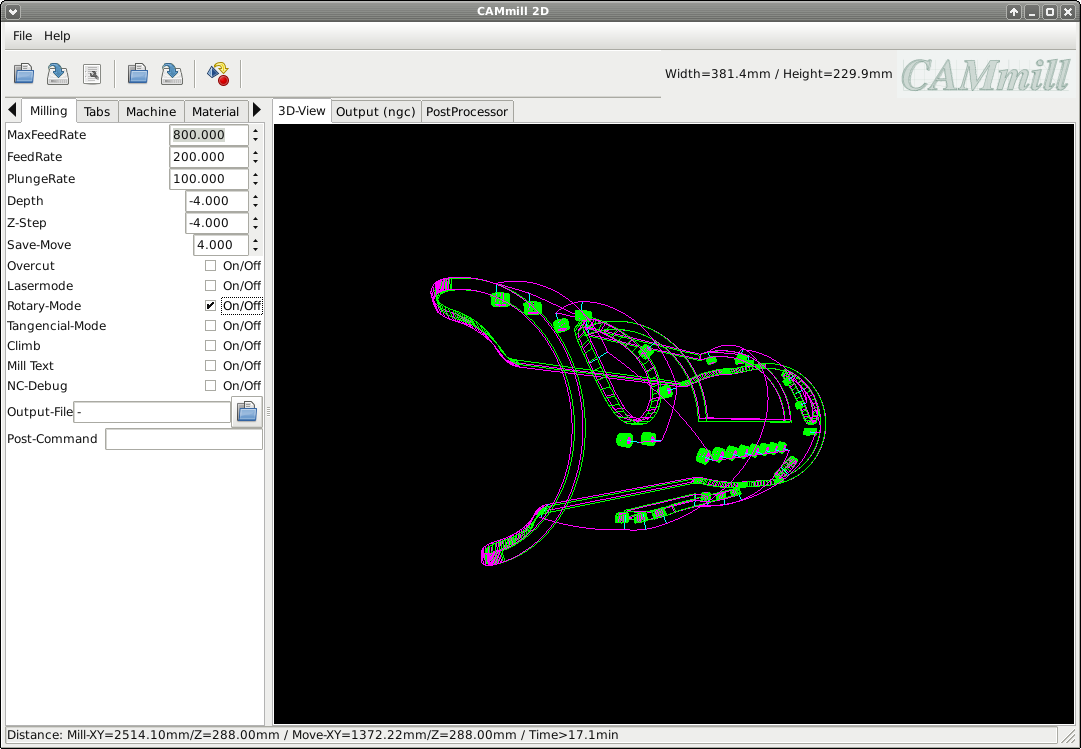
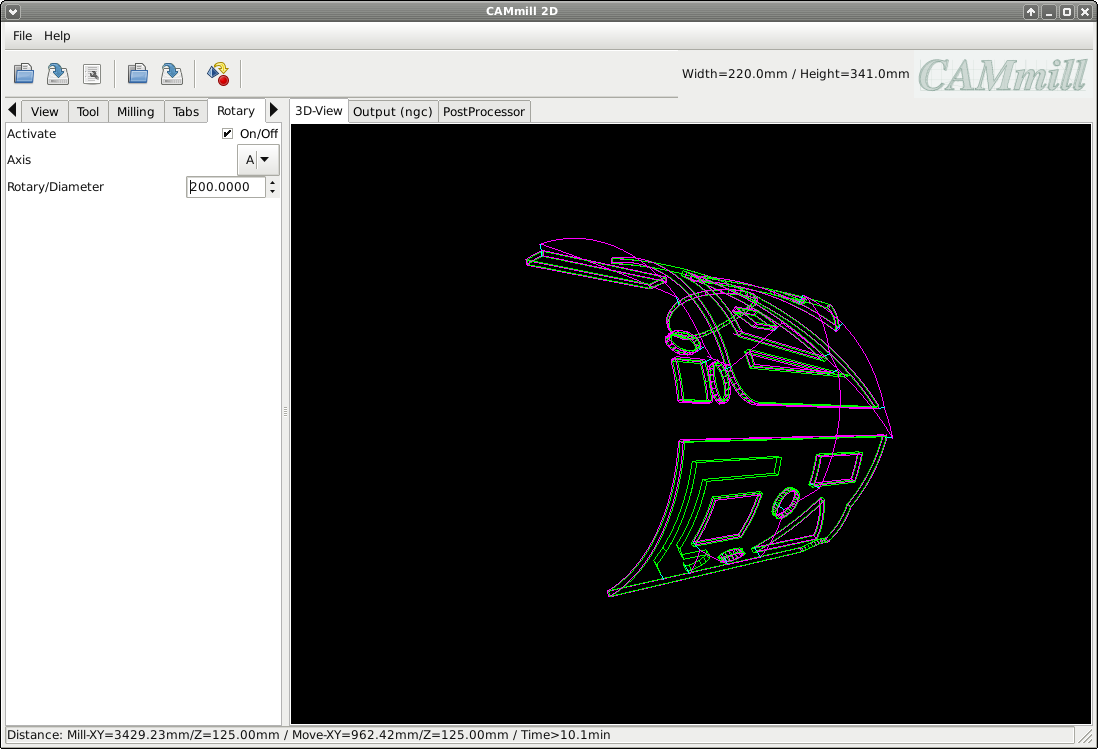
adding little bit documentation

diff --git a/doc/holdings-tabs.html b/doc/holdings-tabs.html
@@ -1,0 +1,59 @@
+<HTML>
+<HEAD>
+<META charset="utf-8"/>
+<STYLE>
+	body {
+		background-color: #000000;
+		background-image: url('doc/bg.png');
+		color: #FFFFFF;
+	}
+</STYLE>
+</HEAD>
+<BODY>
+<H1>CAMmill</H1>
+<HR>
+<H2>Holding-Tabs</H2>
+
+Holding-Tabs sind kleine brücken zum festhalten des ausgefrästen Werkstücks
+
+<BR>
+<BR>
+<BR>
+<LI>Use Taps:<BR>
+<BLOCKQUOTE>
+	aktiviert Holding-Tab's
+</BLOCKQUOTE>
+<LI>Depth
+<BLOCKQUOTE>
+	tiefe der Tab-Oberkante
+</BLOCKQUOTE>
+<LI>Lenght
+<BLOCKQUOTE>
+	länge der Tab's
+</BLOCKQUOTE>
+<LI>Triangle-Type
+<BLOCKQUOTE>
+	Form der Tab's, Rechteck oder Dreieck
+</BLOCKQUOTE>
+<LI>X-Grid
+<BLOCKQUOTE>
+	Raster an dem die Tab's gesezt sind (X-Richtung)
+</BLOCKQUOTE>
+<LI>Y-Grid
+<BLOCKQUOTE>
+	Raster an dem die Tab's gesezt sind (Y-Richtung)
+</BLOCKQUOTE>
+
+
+<BR>
+<BR>
+<BR>
+
+<A href="sc_tabgrid.png"><IMG width="600px" src="sc_tabgrid.png"></A>
+<BR>
+<BR>
+<BR>
+<BR>
+<BR>
+</BODY>
+</HTML>

diff --git a/doc/rotary-mode.html b/doc/rotary-mode.html
@@ -1,0 +1,47 @@
+<HTML>
+<HEAD>
+<META charset="utf-8"/>
+<STYLE>
+	body {
+		background-color: #000000;
+		background-image: url('doc/bg.png');
+		color: #FFFFFF;
+	}
+</STYLE>
+</HEAD>
+<BODY>
+<H1>CAMmill</H1>
+<HR>
+<H2>Rotary-Mode</H2>
+
+Rotaymode nutzt man um über eine 4. Achse(Drehache) auf runden Materialien zu Fräsen
+
+<BR>
+<BR>
+<BR>
+<LI>Activate:<BR>
+<BLOCKQUOTE>
+Aktiviert den Rotations-Achsen-Modus
+</BLOCKQUOTE>
+<LI>Axis:<BR>
+<BLOCKQUOTE>
+Auswahl der Rotations-Achse (A/B/C)
+</BLOCKQUOTE>
+<LI>Diameter:<BR>
+<BLOCKQUOTE>
+Durchmesser des Werkstücks
+</BLOCKQUOTE>
+
+
+<BR>
+<BR>
+<BR>
+
+<A href="sc_rotary.png"><IMG width="600px" src="sc_rotary.png"></A>
+<BR>
+<BR>
+<BR>
+<BR>
+<BR>
+</BODY>
+</HTML>

diff --git a/main.c b/main.c
@@ -1170,11 +1170,13 @@ void mill_xy (int gcmd, double x, double y, double r, int feed, int object_num, 
 								tx1 = maxn - nx;
 								tx2 = maxn - nx;
 							}
-							glColor4f(0.0, 0.0, 1.0, 0.1);
-							glBegin(GL_LINES);
-							glVertex3f(tx1, ty1, PARAMETER[P_T_DEPTH].vdouble);
-							glVertex3f(tx2, ty2, PARAMETER[P_T_DEPTH].vdouble);
-							glEnd();
+							if (PARAMETER[P_M_ROTARYMODE].vint == 0) {
+								glColor4f(0.0, 0.0, 1.0, 0.1);
+								glBegin(GL_LINES);
+								glVertex3f(tx1, ty1, PARAMETER[P_T_DEPTH].vdouble);
+								glVertex3f(tx2, ty2, PARAMETER[P_T_DEPTH].vdouble);
+								glEnd();
+							}
 							if (mill_last_z < PARAMETER[P_T_DEPTH].vdouble && (intersect_check(mill_last_x, mill_last_y, x, y, tx1 + 0.0002, ty1 + 0.0002, tx2 + 0.0002, ty2 + 0.0002, &i_x, &i_y) == 1 || intersect_check(x, y, mill_last_x, mill_last_y, tx1 + 0.0002, ty1 + 0.0002, tx2 + 0.0002, ty2 + 0.0002, &i_x, &i_y) == 1)) {
 								double alpha1 = vector_angle(mill_last_x, mill_last_y, i_x, i_y);
 								double i_x2 = i_x;
@@ -1199,25 +1201,27 @@ void mill_xy (int gcmd, double x, double y, double r, int feed, int object_num, 
 								postcam_var_push_double("currentX", _X(i_x2));
 								postcam_var_push_double("currentY", _Y(i_y2));
 								if (PARAMETER[P_T_TYPE].vint == 0) {
-									glColor4f(1.0, 1.0, 0.0, 0.5);
-									glBegin(GL_QUADS);
-									glVertex3f(i_x2, i_y2 - PARAMETER[P_TOOL_DIAMETER].vdouble, PARAMETER[P_M_DEPTH].vdouble);
-									glVertex3f(i_x2, i_y2 - PARAMETER[P_TOOL_DIAMETER].vdouble, PARAMETER[P_T_DEPTH].vdouble);
-									glVertex3f(i_x2, i_y2 + PARAMETER[P_TOOL_DIAMETER].vdouble, PARAMETER[P_T_DEPTH].vdouble);
-									glVertex3f(i_x2, i_y2 + PARAMETER[P_TOOL_DIAMETER].vdouble, PARAMETER[P_M_DEPTH].vdouble);
-									glEnd();
-									glBegin(GL_QUADS);
-									glVertex3f(i_x2, i_y2 - PARAMETER[P_TOOL_DIAMETER].vdouble, PARAMETER[P_T_DEPTH].vdouble);
-									glVertex3f(i_x3, i_y3 - PARAMETER[P_TOOL_DIAMETER].vdouble, PARAMETER[P_T_DEPTH].vdouble);
-									glVertex3f(i_x3, i_y3 + PARAMETER[P_TOOL_DIAMETER].vdouble, PARAMETER[P_T_DEPTH].vdouble);
-									glVertex3f(i_x2, i_y2 + PARAMETER[P_TOOL_DIAMETER].vdouble, PARAMETER[P_T_DEPTH].vdouble);
-									glEnd();
-									glBegin(GL_QUADS);
-									glVertex3f(i_x3, i_y3 - PARAMETER[P_TOOL_DIAMETER].vdouble, PARAMETER[P_T_DEPTH].vdouble);
-									glVertex3f(i_x3, i_y3 - PARAMETER[P_TOOL_DIAMETER].vdouble, PARAMETER[P_M_DEPTH].vdouble);
-									glVertex3f(i_x3, i_y3 + PARAMETER[P_TOOL_DIAMETER].vdouble, PARAMETER[P_M_DEPTH].vdouble);
-									glVertex3f(i_x3, i_y3 + PARAMETER[P_TOOL_DIAMETER].vdouble, PARAMETER[P_T_DEPTH].vdouble);
-									glEnd();
+									if (PARAMETER[P_M_ROTARYMODE].vint == 0) {
+										glColor4f(1.0, 1.0, 0.0, 0.5);
+										glBegin(GL_QUADS);
+										glVertex3f(i_x2, i_y2 - PARAMETER[P_TOOL_DIAMETER].vdouble, PARAMETER[P_M_DEPTH].vdouble);
+										glVertex3f(i_x2, i_y2 - PARAMETER[P_TOOL_DIAMETER].vdouble, PARAMETER[P_T_DEPTH].vdouble);
+										glVertex3f(i_x2, i_y2 + PARAMETER[P_TOOL_DIAMETER].vdouble, PARAMETER[P_T_DEPTH].vdouble);
+										glVertex3f(i_x2, i_y2 + PARAMETER[P_TOOL_DIAMETER].vdouble, PARAMETER[P_M_DEPTH].vdouble);
+										glEnd();
+										glBegin(GL_QUADS);
+										glVertex3f(i_x2, i_y2 - PARAMETER[P_TOOL_DIAMETER].vdouble, PARAMETER[P_T_DEPTH].vdouble);
+										glVertex3f(i_x3, i_y3 - PARAMETER[P_TOOL_DIAMETER].vdouble, PARAMETER[P_T_DEPTH].vdouble);
+										glVertex3f(i_x3, i_y3 + PARAMETER[P_TOOL_DIAMETER].vdouble, PARAMETER[P_T_DEPTH].vdouble);
+										glVertex3f(i_x2, i_y2 + PARAMETER[P_TOOL_DIAMETER].vdouble, PARAMETER[P_T_DEPTH].vdouble);
+										glEnd();
+										glBegin(GL_QUADS);
+										glVertex3f(i_x3, i_y3 - PARAMETER[P_TOOL_DIAMETER].vdouble, PARAMETER[P_T_DEPTH].vdouble);
+										glVertex3f(i_x3, i_y3 - PARAMETER[P_TOOL_DIAMETER].vdouble, PARAMETER[P_M_DEPTH].vdouble);
+										glVertex3f(i_x3, i_y3 + PARAMETER[P_TOOL_DIAMETER].vdouble, PARAMETER[P_M_DEPTH].vdouble);
+										glVertex3f(i_x3, i_y3 + PARAMETER[P_TOOL_DIAMETER].vdouble, PARAMETER[P_T_DEPTH].vdouble);
+										glEnd();
+									}
 									postcam_var_push_double("endZ", _Z(PARAMETER[P_T_DEPTH].vdouble));
 									postcam_call_function("OnMove");
 									postcam_var_push_double("currentZ", _Z(PARAMETER[P_T_DEPTH].vdouble));
@@ -1230,19 +1234,21 @@ void mill_xy (int gcmd, double x, double y, double r, int feed, int object_num, 
 									postcam_call_function("OnMove");
 									postcam_var_push_double("currentZ", _Z(mill_last_z));
 								} else {
-									glColor4f(1.0, 1.0, 0.0, 0.5);
-									glBegin(GL_QUADS);
-									glVertex3f(i_x2, i_y2 - PARAMETER[P_TOOL_DIAMETER].vdouble, PARAMETER[P_M_DEPTH].vdouble);
-									glVertex3f(i_x, i_y - PARAMETER[P_TOOL_DIAMETER].vdouble, PARAMETER[P_T_DEPTH].vdouble);
-									glVertex3f(i_x, i_y + PARAMETER[P_TOOL_DIAMETER].vdouble, PARAMETER[P_T_DEPTH].vdouble);
-									glVertex3f(i_x2, i_y2 + PARAMETER[P_TOOL_DIAMETER].vdouble, PARAMETER[P_M_DEPTH].vdouble);
-									glEnd();
-									glBegin(GL_QUADS);
-									glVertex3f(i_x, i_y - PARAMETER[P_TOOL_DIAMETER].vdouble, PARAMETER[P_T_DEPTH].vdouble);
-									glVertex3f(i_x3, i_y3 - PARAMETER[P_TOOL_DIAMETER].vdouble, PARAMETER[P_M_DEPTH].vdouble);
-									glVertex3f(i_x3, i_y3 + PARAMETER[P_TOOL_DIAMETER].vdouble, PARAMETER[P_M_DEPTH].vdouble);
-									glVertex3f(i_x, i_y + PARAMETER[P_TOOL_DIAMETER].vdouble, PARAMETER[P_T_DEPTH].vdouble);
-									glEnd();
+									if (PARAMETER[P_M_ROTARYMODE].vint == 0) {
+										glColor4f(1.0, 1.0, 0.0, 0.5);
+										glBegin(GL_QUADS);
+										glVertex3f(i_x2, i_y2 - PARAMETER[P_TOOL_DIAMETER].vdouble, PARAMETER[P_M_DEPTH].vdouble);
+										glVertex3f(i_x, i_y - PARAMETER[P_TOOL_DIAMETER].vdouble, PARAMETER[P_T_DEPTH].vdouble);
+										glVertex3f(i_x, i_y + PARAMETER[P_TOOL_DIAMETER].vdouble, PARAMETER[P_T_DEPTH].vdouble);
+										glVertex3f(i_x2, i_y2 + PARAMETER[P_TOOL_DIAMETER].vdouble, PARAMETER[P_M_DEPTH].vdouble);
+										glEnd();
+										glBegin(GL_QUADS);
+										glVertex3f(i_x, i_y - PARAMETER[P_TOOL_DIAMETER].vdouble, PARAMETER[P_T_DEPTH].vdouble);
+										glVertex3f(i_x3, i_y3 - PARAMETER[P_TOOL_DIAMETER].vdouble, PARAMETER[P_M_DEPTH].vdouble);
+										glVertex3f(i_x3, i_y3 + PARAMETER[P_TOOL_DIAMETER].vdouble, PARAMETER[P_M_DEPTH].vdouble);
+										glVertex3f(i_x, i_y + PARAMETER[P_TOOL_DIAMETER].vdouble, PARAMETER[P_T_DEPTH].vdouble);
+										glEnd();
+									}
 									postcam_var_push_double("endX", _X(i_x));
 									postcam_var_push_double("endY", _Y(i_y));
 									postcam_var_push_double("endZ", _Z(PARAMETER[P_T_DEPTH].vdouble));
@@ -1283,11 +1289,13 @@ void mill_xy (int gcmd, double x, double y, double r, int feed, int object_num, 
 								ty1 = maxn - ny;
 								ty2 = maxn - ny;
 							}
-							glColor4f(0.0, 0.0, 1.0, 0.1);
-							glBegin(GL_LINES);
-							glVertex3f(tx1, ty1, PARAMETER[P_T_DEPTH].vdouble);
-							glVertex3f(tx2, ty2, PARAMETER[P_T_DEPTH].vdouble);
-							glEnd();
+							if (PARAMETER[P_M_ROTARYMODE].vint == 0) {
+								glColor4f(0.0, 0.0, 1.0, 0.1);
+								glBegin(GL_LINES);
+								glVertex3f(tx1, ty1, PARAMETER[P_T_DEPTH].vdouble);
+								glVertex3f(tx2, ty2, PARAMETER[P_T_DEPTH].vdouble);
+								glEnd();
+							}
 							if (mill_last_z < PARAMETER[P_T_DEPTH].vdouble && (intersect_check(mill_last_x, mill_last_y, x, y, tx1 + 0.0002, ty1 + 0.0002, tx2 + 0.0002, ty2 + 0.0002, &i_x, &i_y) == 1 || intersect_check(x, y, mill_last_x, mill_last_y, tx1 + 0.0002, ty1 + 0.0002, tx2 + 0.0002, ty2 + 0.0002, &i_x, &i_y) == 1)) {
 								double alpha1 = vector_angle(mill_last_x, mill_last_y, i_x, i_y);
 								double i_x2 = i_x;
@@ -1312,28 +1320,27 @@ void mill_xy (int gcmd, double x, double y, double r, int feed, int object_num, 
 								postcam_var_push_double("currentX", _X(i_x2));
 								postcam_var_push_double("currentY", _Y(i_y2));
 								if (PARAMETER[P_T_TYPE].vint == 0) {
-
-									glColor4f(1.0, 1.0, 0.0, 0.5);
-									glBegin(GL_QUADS);
-									glVertex3f(i_x2 - PARAMETER[P_TOOL_DIAMETER].vdouble, i_y2, PARAMETER[P_M_DEPTH].vdouble);
-									glVertex3f(i_x2 - PARAMETER[P_TOOL_DIAMETER].vdouble, i_y2, PARAMETER[P_T_DEPTH].vdouble);
-									glVertex3f(i_x2 + PARAMETER[P_TOOL_DIAMETER].vdouble, i_y2, PARAMETER[P_T_DEPTH].vdouble);
-									glVertex3f(i_x2 + PARAMETER[P_TOOL_DIAMETER].vdouble, i_y2, PARAMETER[P_M_DEPTH].vdouble);
-									glEnd();
-									glBegin(GL_QUADS);
-									glVertex3f(i_x2 - PARAMETER[P_TOOL_DIAMETER].vdouble, i_y2, PARAMETER[P_T_DEPTH].vdouble);
-									glVertex3f(i_x3 - PARAMETER[P_TOOL_DIAMETER].vdouble, i_y3, PARAMETER[P_T_DEPTH].vdouble);
-									glVertex3f(i_x3 + PARAMETER[P_TOOL_DIAMETER].vdouble, i_y3, PARAMETER[P_T_DEPTH].vdouble);
-									glVertex3f(i_x2 + PARAMETER[P_TOOL_DIAMETER].vdouble, i_y2, PARAMETER[P_T_DEPTH].vdouble);
-									glEnd();
-									glBegin(GL_QUADS);
-									glVertex3f(i_x3 - PARAMETER[P_TOOL_DIAMETER].vdouble, i_y3, PARAMETER[P_T_DEPTH].vdouble);
-									glVertex3f(i_x3 - PARAMETER[P_TOOL_DIAMETER].vdouble, i_y3, PARAMETER[P_M_DEPTH].vdouble);
-									glVertex3f(i_x3 + PARAMETER[P_TOOL_DIAMETER].vdouble, i_y3, PARAMETER[P_M_DEPTH].vdouble);
-									glVertex3f(i_x3 + PARAMETER[P_TOOL_DIAMETER].vdouble, i_y3, PARAMETER[P_T_DEPTH].vdouble);
-									glEnd();
-
-
+									if (PARAMETER[P_M_ROTARYMODE].vint == 0) {
+										glColor4f(1.0, 1.0, 0.0, 0.5);
+										glBegin(GL_QUADS);
+										glVertex3f(i_x2 - PARAMETER[P_TOOL_DIAMETER].vdouble, i_y2, PARAMETER[P_M_DEPTH].vdouble);
+										glVertex3f(i_x2 - PARAMETER[P_TOOL_DIAMETER].vdouble, i_y2, PARAMETER[P_T_DEPTH].vdouble);
+										glVertex3f(i_x2 + PARAMETER[P_TOOL_DIAMETER].vdouble, i_y2, PARAMETER[P_T_DEPTH].vdouble);
+										glVertex3f(i_x2 + PARAMETER[P_TOOL_DIAMETER].vdouble, i_y2, PARAMETER[P_M_DEPTH].vdouble);
+										glEnd();
+										glBegin(GL_QUADS);
+										glVertex3f(i_x2 - PARAMETER[P_TOOL_DIAMETER].vdouble, i_y2, PARAMETER[P_T_DEPTH].vdouble);
+										glVertex3f(i_x3 - PARAMETER[P_TOOL_DIAMETER].vdouble, i_y3, PARAMETER[P_T_DEPTH].vdouble);
+										glVertex3f(i_x3 + PARAMETER[P_TOOL_DIAMETER].vdouble, i_y3, PARAMETER[P_T_DEPTH].vdouble);
+										glVertex3f(i_x2 + PARAMETER[P_TOOL_DIAMETER].vdouble, i_y2, PARAMETER[P_T_DEPTH].vdouble);
+										glEnd();
+										glBegin(GL_QUADS);
+										glVertex3f(i_x3 - PARAMETER[P_TOOL_DIAMETER].vdouble, i_y3, PARAMETER[P_T_DEPTH].vdouble);
+										glVertex3f(i_x3 - PARAMETER[P_TOOL_DIAMETER].vdouble, i_y3, PARAMETER[P_M_DEPTH].vdouble);
+										glVertex3f(i_x3 + PARAMETER[P_TOOL_DIAMETER].vdouble, i_y3, PARAMETER[P_M_DEPTH].vdouble);
+										glVertex3f(i_x3 + PARAMETER[P_TOOL_DIAMETER].vdouble, i_y3, PARAMETER[P_T_DEPTH].vdouble);
+										glEnd();
+									}
 									postcam_var_push_double("endZ", _Z(PARAMETER[P_T_DEPTH].vdouble));
 									postcam_call_function("OnMove");
 									postcam_var_push_double("currentZ", _Z(PARAMETER[P_T_DEPTH].vdouble));
@@ -1346,19 +1353,21 @@ void mill_xy (int gcmd, double x, double y, double r, int feed, int object_num, 
 									postcam_call_function("OnMove");
 									postcam_var_push_double("currentZ", _Z(mill_last_z));
 								} else {
-									glColor4f(1.0, 1.0, 0.0, 0.5);
-									glBegin(GL_QUADS);
-									glVertex3f(i_x2 - PARAMETER[P_TOOL_DIAMETER].vdouble, i_y2, PARAMETER[P_M_DEPTH].vdouble);
-									glVertex3f(i_x - PARAMETER[P_TOOL_DIAMETER].vdouble, i_y, PARAMETER[P_T_DEPTH].vdouble);
-									glVertex3f(i_x + PARAMETER[P_TOOL_DIAMETER].vdouble, i_y, PARAMETER[P_T_DEPTH].vdouble);
-									glVertex3f(i_x2 + PARAMETER[P_TOOL_DIAMETER].vdouble, i_y2, PARAMETER[P_M_DEPTH].vdouble);
-									glEnd();
-									glBegin(GL_QUADS);
-									glVertex3f(i_x - PARAMETER[P_TOOL_DIAMETER].vdouble, i_y, PARAMETER[P_T_DEPTH].vdouble);
-									glVertex3f(i_x3 - PARAMETER[P_TOOL_DIAMETER].vdouble, i_y3, PARAMETER[P_M_DEPTH].vdouble);
-									glVertex3f(i_x3 + PARAMETER[P_TOOL_DIAMETER].vdouble, i_y3, PARAMETER[P_M_DEPTH].vdouble);
-									glVertex3f(i_x + PARAMETER[P_TOOL_DIAMETER].vdouble, i_y, PARAMETER[P_T_DEPTH].vdouble);
-									glEnd();
+									if (PARAMETER[P_M_ROTARYMODE].vint == 0) {
+										glColor4f(1.0, 1.0, 0.0, 0.5);
+										glBegin(GL_QUADS);
+										glVertex3f(i_x2 - PARAMETER[P_TOOL_DIAMETER].vdouble, i_y2, PARAMETER[P_M_DEPTH].vdouble);
+										glVertex3f(i_x - PARAMETER[P_TOOL_DIAMETER].vdouble, i_y, PARAMETER[P_T_DEPTH].vdouble);
+										glVertex3f(i_x + PARAMETER[P_TOOL_DIAMETER].vdouble, i_y, PARAMETER[P_T_DEPTH].vdouble);
+										glVertex3f(i_x2 + PARAMETER[P_TOOL_DIAMETER].vdouble, i_y2, PARAMETER[P_M_DEPTH].vdouble);
+										glEnd();
+										glBegin(GL_QUADS);
+										glVertex3f(i_x - PARAMETER[P_TOOL_DIAMETER].vdouble, i_y, PARAMETER[P_T_DEPTH].vdouble);
+										glVertex3f(i_x3 - PARAMETER[P_TOOL_DIAMETER].vdouble, i_y3, PARAMETER[P_M_DEPTH].vdouble);
+										glVertex3f(i_x3 + PARAMETER[P_TOOL_DIAMETER].vdouble, i_y3, PARAMETER[P_M_DEPTH].vdouble);
+										glVertex3f(i_x + PARAMETER[P_TOOL_DIAMETER].vdouble, i_y, PARAMETER[P_T_DEPTH].vdouble);
+										glEnd();
+									}
 									postcam_var_push_double("endX", _X(i_x));
 									postcam_var_push_double("endY", _Y(i_y));
 									postcam_var_push_double("endZ", _Z(PARAMETER[P_T_DEPTH].vdouble));

diff --git a/setup.c b/setup.c
@@ -65,7 +65,7 @@ PARA PARAMETER[] = {
 	{"Order",	"Objects",	"-mo",	T_SELECT,	0,	-1.0,	-1.0,	"",	-1.0,	1.0,	10.0,		"", 1, 1, "milling order", 0, 0},
 	{"Activate",	"Rotary",	"-rm",	T_BOOL	,	0,	0.0,	0.0,	"",	0.0,	1.0,	1.0,		"", 1, 1, "rotarymode to project 2D on rotating axis", 0, 0},
 	{"Axis",	"Rotary",	"-ra",	T_SELECT,	0,	0.0,	0.0,	"",	0.0,	1.0,	2.0,		"A/B/C", 0, 1, "axis that used as rotating axis", 0, 0},
-	{"Rotary/Diameter","Rotary",	"-md",	T_DOUBLE,	0,	0.0,	100.0,	"",	0.01,	0.01,	1000.0,		"mm", 1, 1, "diameter of the material for the rotary-mode", 0, 0},
+	{"Diameter",	"Rotary",	"-md",	T_DOUBLE,	0,	0.0,	100.0,	"",	0.01,	0.01,	1000.0,		"mm", 1, 1, "diameter of the material for the rotary-mode", 0, 0},
 	{"Activate",	"Tangencial",	"-tm",	T_BOOL	,	0,	0.0,	0.0,	"",	0.0,	1.0,	1.0,		"", 1, 1, "tangencial-knife cutting, depth=0.0", 0, 0},
 	{"Axis",	"Tangencial",	"-ta",	T_SELECT,	1,	0.0,	0.0,	"",	0.0,	1.0,	2.0,		"A/B/C", 0, 1, "axis that used as tangencial axis", 0, 0},
 	{"MaxAngle",	"Tangencial", 	"-tm",	T_DOUBLE,	0,	0.0,	10.0,	"",	0.0,	1.0,	360.0,		"°", 1, 1, "maximum angle before push up the knife", 0, 0},
